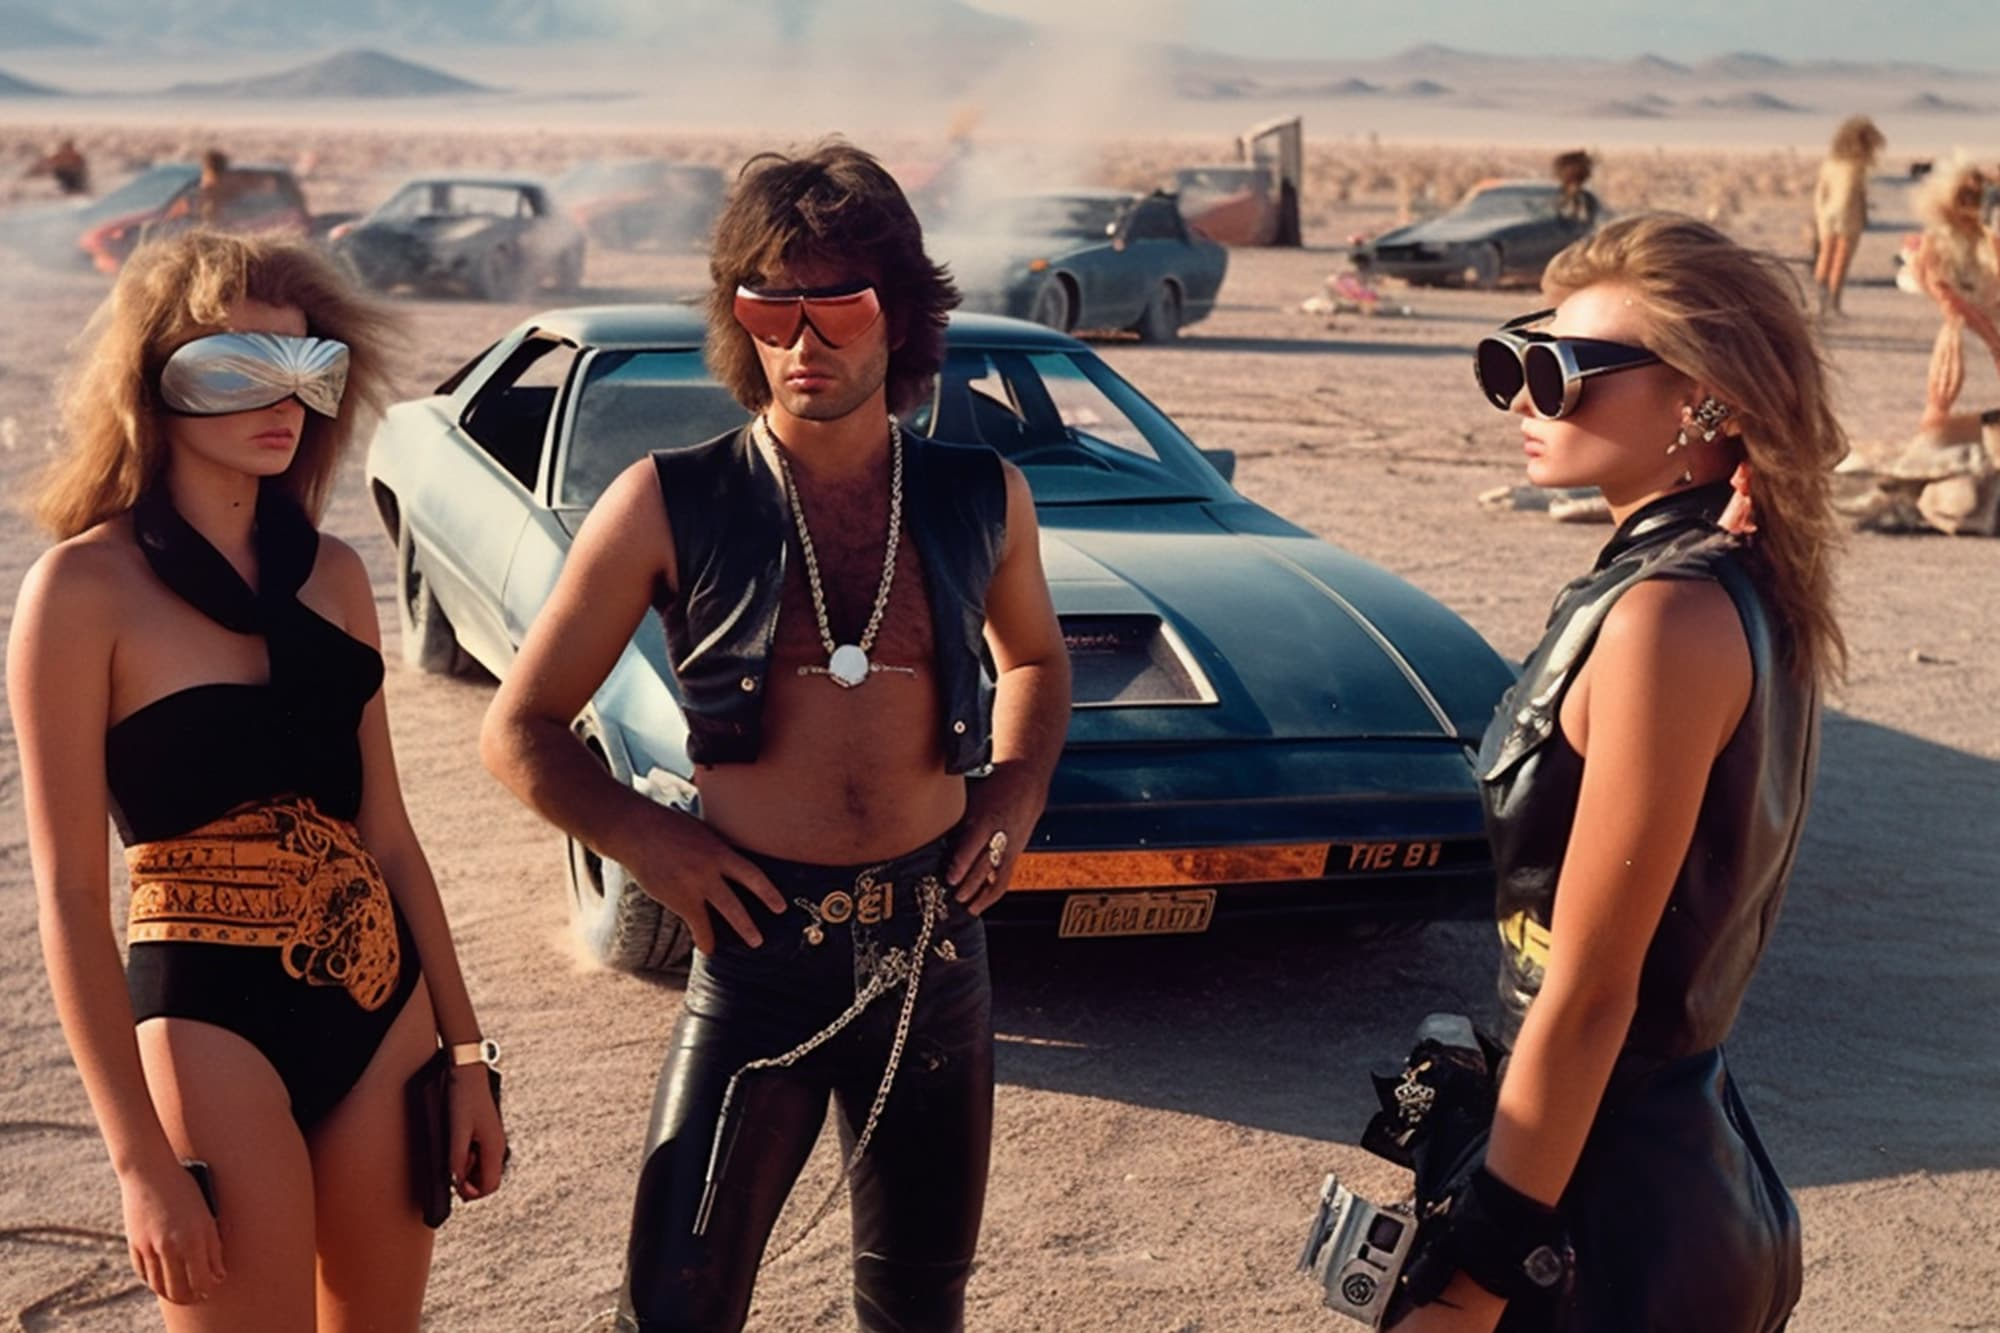
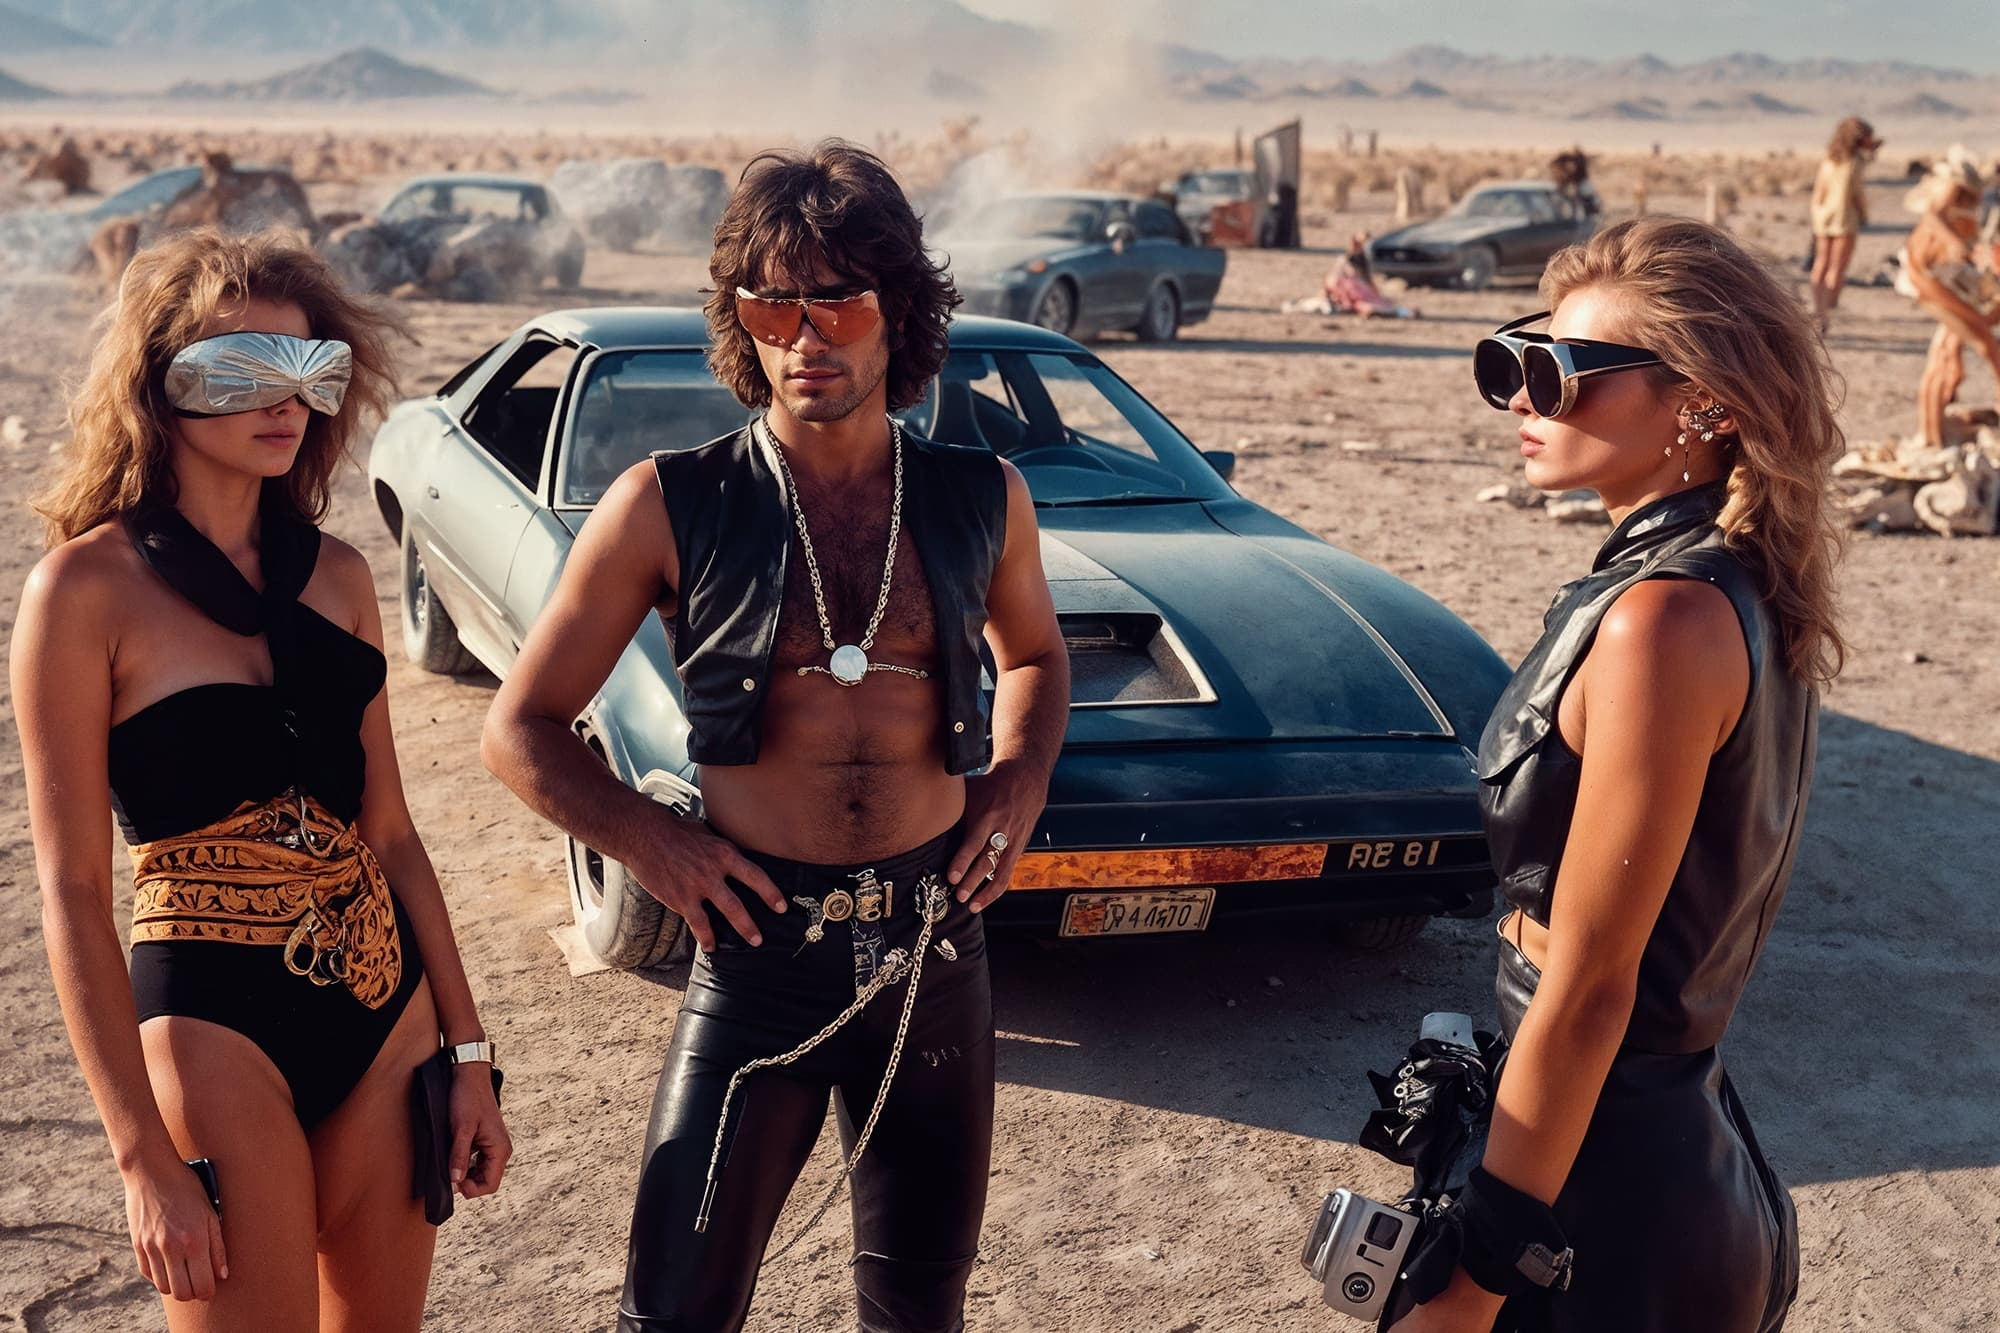
updated imagery
remastered with magnific, added 15th image

diff --git a/index.html b/index.html
@@ -358,6 +358,22 @@
             </div>
             <!--end slide-->
 
+            <div class="slide" id="14">
+                <div class="description">
+                    <h2 class="animate"> </h2>
+                    <dl class="animate">
+                        <dt>Generative Experiment</dt>
+                        <dd>MidJourney</dd>
+                        <dt>Prompt</dt>
+                        <dd>Vintage polaroid image of slinky hot cyborg, big antennas, upper body, plunging neckline, candid editorial capture, 2015</dd>
+                    </dl>
+                    
+                </div>
+                <!--end description-->
+                <div class="image" data-background="assets/img/15.jpg"></div>
+            </div>
+            <!--end slide-->
+
         </div>
         <!--end page-wrapper-->
     </div>
